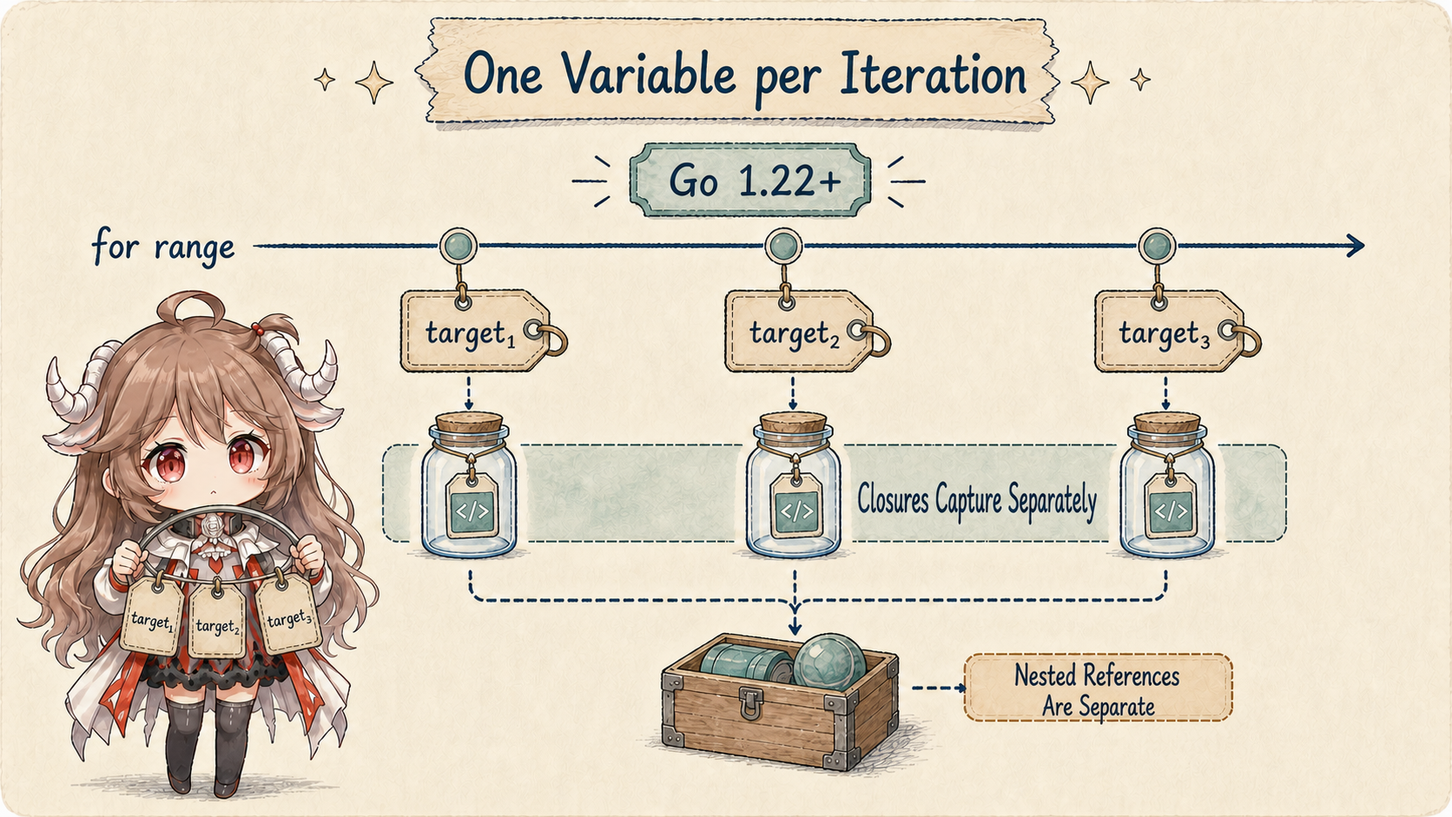
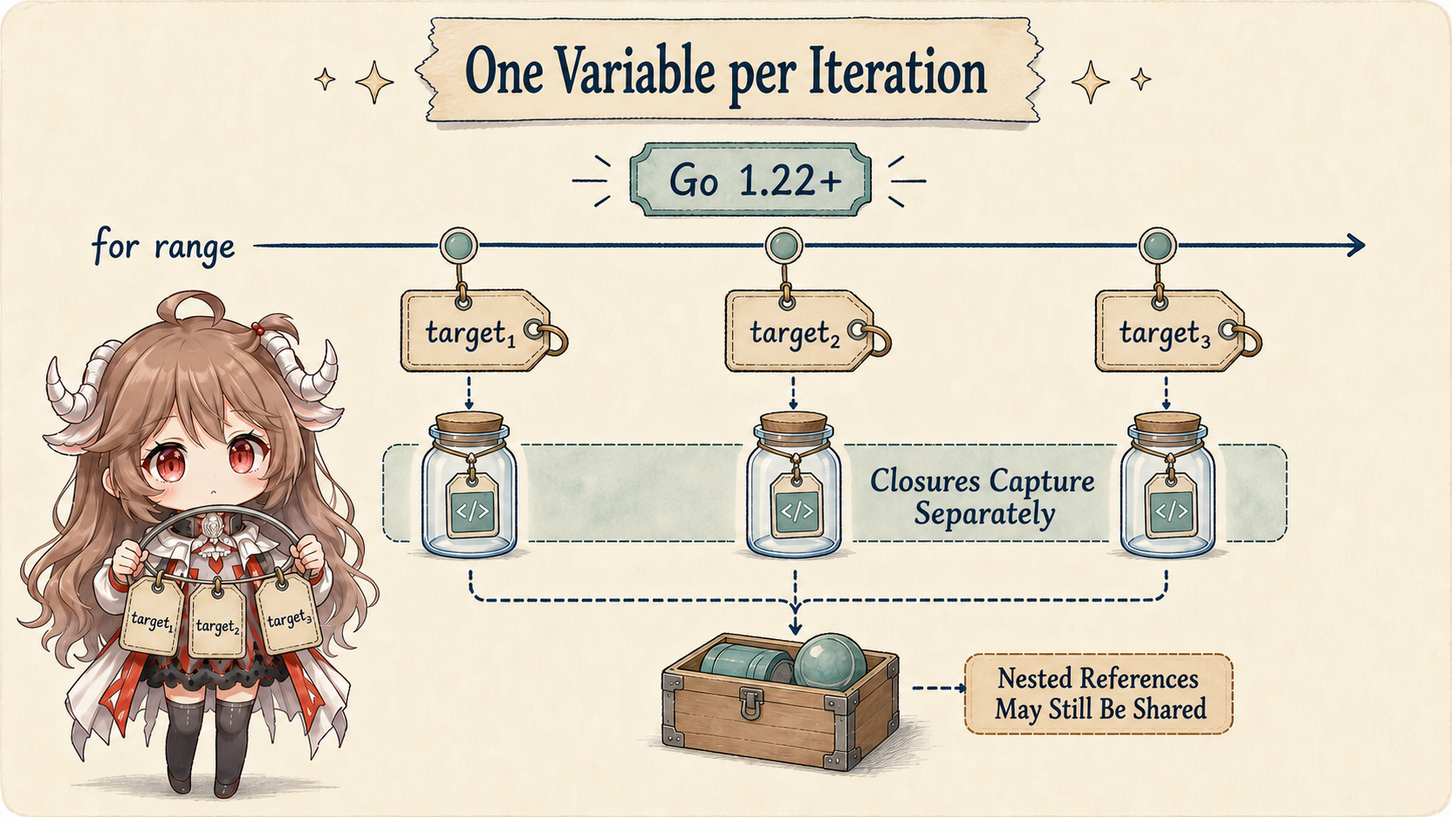
Refresh Go value semantics sources and slice ownership figures

diff --git a/go-runtime/en/value-semantics/index.html b/go-runtime/en/value-semantics/index.html
@@ -4,7 +4,7 @@
     <meta charset="utf-8" />
     <meta name="viewport" content="width=device-width, initial-scale=1" />
     <title>Go Source Notes II: What Assignment Copies and What Slices Share</title>
-    <meta name="description" content="Chapter II of Go from Request to Production uses fetchd's URL slice, result channel, and JSON aggregation to explain value copying, aliases, append growth, channel element copies, maps, interfaces, and range variables in Go 1.26.0." />
+    <meta name="description" content="Chapter II of Go from Request to Production uses fetchd's URL slice, result channel, and JSON aggregation to explain value copying, aliases, append growth, channel element copies, maps, interfaces, and range variables against a pinned Go development snapshot." />
     <meta name="theme-color" content="#f5f1e8" />
     <meta property="og:title" content="Go Source Notes II: What Assignment Copies and What Slices Share" />
     <meta property="og:description" content="Go always copies a value. The next question is whether that copied value still carries references to shared data." />
@@ -58,7 +58,7 @@
               “Go only passes by value” is true, but it often explains nothing: why can two slices update the same elements, why can an <code>append</code>
               suddenly separate them, and what does a channel isolate when it sends a struct? The useful answer is to identify <strong>the value being copied and every reference carried inside it</strong>.
             </p>
-            <div class="meta-line"><span>Source: Go 1.26.0</span><span>Path: language spec → runtime.slice → runtime.chan</span><span>Lab: fetchd/value_semantics_test.go</span></div>
+            <div class="meta-line"><span>Source: pinned Go development snapshot</span><span>Path: language spec → runtime.slice → runtime.chan</span><span>Lab: fetchd/value_semantics_test.go</span></div>
             <figure class="hero-image"><img src="../assets/value-semantics-overview.png" alt="Go value-semantics overview: integers, arrays, and structs are copied as values, while copied slice, map, channel, and interface values may still reach shared underlying data" /></figure>
           </section>
 
@@ -69,7 +69,7 @@
               We will build intuition with runnable code, then confirm it with three evidence layers. Semantics come from the Go specification sections on
               <a href="https://go.dev/ref/spec#Representation_of_values">representation of values</a>, <a href="https://go.dev/ref/spec#Slice_types">slice types</a>, and
               <a href="https://go.dev/ref/spec#For_statements">for statements</a>. Implementation claims are pinned to the
-              <a href="https://github.com/golang/go/tree/go1.26.0">Go 1.26.0 tag</a>. Observable behavior is captured by the repository's
+              <a href="https://github.com/golang/go/tree/f043823a99a4118989a34afec015d23b5d54d01e">fixed Go development-branch snapshot</a> (verified on September 20, 2026; not a stable release). Observable behavior is captured by the repository's
               <a href="https://github.com/Rememorio/blog/blob/main/go-runtime/examples/fetchd/value_semantics_test.go">value-semantics tests</a>.
               Runtime layouts explain this version; they are not a promise that application code should access them through <code>unsafe</code>.
             </p>
@@ -150,7 +150,7 @@ type slice struct {
     len   int
     cap   int
 }</code></pre>
-            <span class="source-caption">Pinned source: <a href="https://github.com/golang/go/blob/go1.26.0/src/runtime/slice.go#L16-L20">runtime.slice</a>. This is an internal layout, not a public API.</span>
+            <span class="source-caption">Pinned source: <a href="https://github.com/golang/go/blob/f043823a99a4118989a34afec015d23b5d54d01e/src/runtime/slice.go#L16-L20">runtime.slice</a>. This is an internal layout, not a public API.</span>
 
             <p>
               After <code>b := a</code>, <code>b</code> has its own triple. Reslicing <code>b</code> does not change <code>a.len</code>. Initially, however, both <code>array</code>
@@ -166,7 +166,7 @@ copyOfHeader = append(copyOfHeader, "gamma")
 len(original) == 2                   // each header owns its len
 original[:3][2] == "gamma"           // append still wrote into shared storage</code></pre>
 
-            <figure class="figure"><img src="../assets/slice-append-ownership.png" alt="Slice copy and append: two ptr len cap headers address one array; append keeps using it while capacity remains, then growslice uses mallocgc and memmove to create a new array" /></figure>
+            <figure class="figure"><img src="../assets/slice-append-ownership.png" alt="Two slice append paths: sufficient capacity reuses the array; insufficient capacity copies old elements into a new array through growslice; retain the returned slice header in both cases" /></figure>
 
             <h3>Why <code>append</code>'s result must be assigned</h3>
             <p>
@@ -183,7 +183,7 @@ original[:3][2] == "gamma"           // append still wrote into shared storage</
     memmove(p, oldPtr, lenmem)
     return slice{p, newLen, newcap}
 }</code></pre>
-            <span class="source-caption">Pinned source: <a href="https://github.com/golang/go/blob/go1.26.0/src/runtime/slice.go#L178-L286">growslice</a> and <a href="https://github.com/golang/go/blob/go1.26.0/src/runtime/slice.go#L325-L357">nextslicecap</a>.</span>
+            <span class="source-caption">Pinned source: <a href="https://github.com/golang/go/blob/f043823a99a4118989a34afec015d23b5d54d01e/src/runtime/slice.go#L178-L286">growslice</a> and <a href="https://github.com/golang/go/blob/f043823a99a4118989a34afec015d23b5d54d01e/src/runtime/slice.go#L325-L357">nextslicecap</a>.</span>
 
             <p>
               The real path also separates pointer-bearing elements, runs race/msan/asan hooks, applies write barriers, and rounds allocator size classes.
@@ -227,7 +227,7 @@ fmt.Println(string(got.Body)) // "Nk"</code></pre>
     unlock(&amp;c.lock)
     return true
 }</code></pre>
-            <span class="source-caption">Pinned source: the buffered path in <a href="https://github.com/golang/go/blob/go1.26.0/src/runtime/chan.go#L229-L249">runtime.chansend</a>. An unbuffered direct handoff uses barriers and <code>memmove</code> in <a href="https://github.com/golang/go/blob/go1.26.0/src/runtime/chan.go#L382-L403">sendDirect</a>.</span>
+            <span class="source-caption">Pinned source: the buffered path in <a href="https://github.com/golang/go/blob/f043823a99a4118989a34afec015d23b5d54d01e/src/runtime/chan.go#L221-L241">runtime.chansend</a>. An unbuffered direct handoff uses barriers and <code>memmove</code> in <a href="https://github.com/golang/go/blob/f043823a99a4118989a34afec015d23b5d54d01e/src/runtime/chan.go#L374-L395">sendDirect</a>.</span>
 
             <figure class="figure"><img src="../assets/channel-value-copy.png" alt="A fetchResult passes through chansend and typedmemmove into a channel buffer; the struct is copied, while copied byte-slice headers may still point at shared backing storage" /></figure>
 
@@ -246,7 +246,7 @@ fmt.Println(string(got.Body)) // "Nk"</code></pre>
 
             <h4>An interface nil has both a type and data question</h4>
             <p>
-              Go 1.26 represents a non-empty interface as <code>tab + data</code> and an empty interface as <code>_type + data</code>. This explains a typed nil:
+              The pinned runtime represents a non-empty interface as <code>tab + data</code> and an empty interface as <code>_type + data</code>. This explains a typed nil:
               after <code>(*fetchResult)(nil)</code> enters <code>any</code>, data may be nil while the dynamic type remains <code>*fetchResult</code>, so the interface itself is not nil.
             </p>
 
@@ -259,7 +259,7 @@ type eface struct {
     _type *_type
     data  unsafe.Pointer
 }</code></pre>
-            <span class="source-caption">Pinned source: <a href="https://github.com/golang/go/blob/go1.26.0/src/runtime/runtime2.go#L184-L195">runtime.iface and runtime.eface</a>. Application code should use language-level assertions, not inspect this layout.</span>
+            <span class="source-caption">Pinned source: <a href="https://github.com/golang/go/blob/f043823a99a4118989a34afec015d23b5d54d01e/src/runtime/runtime2.go#L184-L195">runtime.iface and runtime.eface</a>. Application code should use language-level assertions, not inspect this layout.</span>
 
             <pre><code class="language-go">var pointer *fetchResult
 var value any = pointer
@@ -271,8 +271,8 @@ ok &amp;&amp; typed == nil            // true</code></pre>
             <h3>4.3 Go 1.22+ Range Variables: One Old Trap Changed</h3>
             <p>
               <code>fetchd</code> launches goroutines inside <code>for _, target := range targets</code>. Since Go 1.22, iteration variables declared by a range clause with
-              <code>:=</code> are new variables for each iteration. This module declares <code>go 1.26.0</code>, so the closures capture distinct <code>target</code> variables; the historical
-              <code>target := target</code> patch is unnecessary here.
+              <code>:=</code> are new variables for each iteration. This module declares <code>go 1.26.0</code>, so a closure would capture a distinct <code>target</code> each iteration; the historical
+              <code>target := target</code> patch is unnecessary. This handler actually uses <code>go h.fetch(ctx, target, results)</code>: its arguments are evaluated and copied when the go statement executes, without capturing the loop variable in a closure.
             </p>
 
             <figure class="figure"><img src="../assets/range-variable-iterations.png" alt="Range variables since Go 1.22: target1, target2, and target3 belong to separate iterations and closures capture them separately; nested references may still reach shared data" /></figure>
@@ -329,12 +329,12 @@ go vet ./...</code></pre>
               <li><a href="https://go.dev/blog/slices-intro">Go Slices: usage and internals</a></li>
               <li><a href="https://go.dev/blog/slices">Arrays, slices (and strings): The mechanics of append</a></li>
               <li><a href="https://go.dev/blog/loopvar-preview">Fixing For Loops in Go 1.22</a></li>
-              <li><a href="https://github.com/golang/go/blob/go1.26.0/src/runtime/slice.go#L16-L20">runtime.slice</a></li>
-              <li><a href="https://github.com/golang/go/blob/go1.26.0/src/runtime/slice.go#L178-L286">runtime.growslice</a></li>
-              <li><a href="https://github.com/golang/go/blob/go1.26.0/src/runtime/slice.go#L325-L357">runtime.nextslicecap</a></li>
-              <li><a href="https://github.com/golang/go/blob/go1.26.0/src/runtime/chan.go#L157-L249">runtime.chansend</a></li>
-              <li><a href="https://github.com/golang/go/blob/go1.26.0/src/runtime/chan.go#L382-L403">runtime.sendDirect</a></li>
-              <li><a href="https://github.com/golang/go/blob/go1.26.0/src/runtime/runtime2.go#L184-L195">runtime interface layouts</a></li>
+              <li><a href="https://github.com/golang/go/blob/f043823a99a4118989a34afec015d23b5d54d01e/src/runtime/slice.go#L16-L20">runtime.slice</a></li>
+              <li><a href="https://github.com/golang/go/blob/f043823a99a4118989a34afec015d23b5d54d01e/src/runtime/slice.go#L178-L286">runtime.growslice</a></li>
+              <li><a href="https://github.com/golang/go/blob/f043823a99a4118989a34afec015d23b5d54d01e/src/runtime/slice.go#L325-L357">runtime.nextslicecap</a></li>
+              <li><a href="https://github.com/golang/go/blob/f043823a99a4118989a34afec015d23b5d54d01e/src/runtime/chan.go#L157-L241">runtime.chansend</a></li>
+              <li><a href="https://github.com/golang/go/blob/f043823a99a4118989a34afec015d23b5d54d01e/src/runtime/chan.go#L374-L395">runtime.sendDirect</a></li>
+              <li><a href="https://github.com/golang/go/blob/f043823a99a4118989a34afec015d23b5d54d01e/src/runtime/runtime2.go#L184-L195">runtime interface layouts</a></li>
               <li><a href="https://github.com/Rememorio/blog/tree/main/go-runtime/examples/fetchd">Runnable fetchd example</a></li>
             </ul>
 

diff --git a/go-runtime/zh/value-semantics/index.html b/go-runtime/zh/value-semantics/index.html
@@ -6,7 +6,7 @@
     <title>Go 源码阅读（二）：赋值复制了什么，slice 又共享了什么</title>
     <meta
       name="description"
-      content="Go 从请求到生产现场系列第二篇：从 fetchd 的 URL slice、result channel 与 JSON 聚合出发，沿 Go 1.26.0 源码解释值复制、别名、append 扩容、channel 元素复制、map、interface 与 range 变量。"
+      content="Go 从请求到生产现场系列第二篇：从 fetchd 的 URL slice、result channel 与 JSON 聚合出发，沿 Go 开发分支固定快照解释值复制、别名、append 扩容、channel 元素复制、map、interface 与 range 变量。"
     />
     <meta name="theme-color" content="#f5f1e8" />
     <meta property="og:title" content="Go 源码阅读（二）：赋值复制了什么，slice 又共享了什么" />
@@ -66,7 +66,7 @@
               “Go 只有值传递”没错，却常常什么也没解释：两个 slice 为什么能改到同一批元素，<code>append</code> 后为什么又突然互不影响，
               channel 发送结构体后到底隔离了什么？答案不是再造一套“引用类型”术语，而是逐层辨认<strong>被复制的值长什么样，它内部是否仍携带引用</strong>。
             </p>
-            <div class="meta-line"><span>源码：Go 1.26.0</span><span>路径：language spec → runtime.slice → runtime.chan</span><span>实验：fetchd/value_semantics_test.go</span></div>
+            <div class="meta-line"><span>源码：Go 开发分支固定快照</span><span>路径：language spec → runtime.slice → runtime.chan</span><span>实验：fetchd/value_semantics_test.go</span></div>
             <figure class="hero-image"><img src="../assets/value-semantics-overview.png" alt="Go 值语义总览：整数、数组和结构体完成值复制；slice、map、channel 与 interface 的值被复制后仍可能指向共享底层数据" /></figure>
           </section>
 
@@ -78,7 +78,7 @@
             <p>
               本文先用可运行代码建立直觉，再用三层证据确认它：语言语义以 <a href="https://go.dev/ref/spec#Representation_of_values">Go 语言规范的 Representation of values</a>、
               <a href="https://go.dev/ref/spec#Slice_types">Slice types</a> 和 <a href="https://go.dev/ref/spec#For_statements">for 语句</a>为准；
-              实现固定到 <a href="https://github.com/golang/go/tree/go1.26.0">Go 1.26.0 tag</a>；可观察行为由仓库中的
+              实现固定到 <a href="https://github.com/golang/go/tree/f043823a99a4118989a34afec015d23b5d54d01e">Go 开发分支固定快照</a>（核实于 2026-09-20，不代表稳定发行版）；可观察行为由仓库中的
               <a href="https://github.com/Rememorio/blog/blob/main/go-runtime/examples/fetchd/value_semantics_test.go">值语义测试</a>覆盖。
               runtime 布局是解释当前实现的证据，不是让业务用 <code>unsafe</code> 依赖内部字段的承诺。
             </p>
@@ -160,7 +160,7 @@ type slice struct {
     len   int
     cap   int
 }</code></pre>
-            <span class="source-caption">对应源码：<a href="https://github.com/golang/go/blob/go1.26.0/src/runtime/slice.go#L16-L20">runtime.slice</a>。这是 runtime 内部布局，不是公共 API。</span>
+            <span class="source-caption">对应源码：<a href="https://github.com/golang/go/blob/f043823a99a4118989a34afec015d23b5d54d01e/src/runtime/slice.go#L16-L20">runtime.slice</a>。这是 runtime 内部布局，不是公共 API。</span>
 
             <p>
               执行 <code>b := a</code> 时，<code>b</code> 得到自己的三元组；修改 <code>b</code> 的长度不会改变 <code>a.len</code>。
@@ -176,7 +176,7 @@ copyOfHeader = append(copyOfHeader, "gamma")
 len(original) == 2                   // 每个头有自己的 len
 original[:3][2] == "gamma"           // 但 append 仍写入共享数组</code></pre>
 
-            <figure class="figure"><img src="../assets/slice-append-ownership.png" alt="slice 复制与 append：两个 ptr len cap 头指向同一数组；容量足够时 append 继续使用同一数组，容量不足时 growslice 经 mallocgc 和 memmove 生成新数组" /></figure>
+            <figure class="figure"><img src="../assets/slice-append-ownership.png" alt="slice 追加的两条路径：容量足够时切片头继续指向原数组；容量不足时 growslice 复制旧元素到新数组，两种情况都要接住返回的新切片头" /></figure>
 
             <h3><code>append</code> 为什么必须接住返回值</h3>
             <p>
@@ -193,7 +193,7 @@ original[:3][2] == "gamma"           // 但 append 仍写入共享数组</code><
     memmove(p, oldPtr, lenmem)
     return slice{p, newLen, newcap}
 }</code></pre>
-            <span class="source-caption">对应源码：<a href="https://github.com/golang/go/blob/go1.26.0/src/runtime/slice.go#L178-L286">growslice</a> 与 <a href="https://github.com/golang/go/blob/go1.26.0/src/runtime/slice.go#L325-L357">nextslicecap</a>。</span>
+            <span class="source-caption">对应源码：<a href="https://github.com/golang/go/blob/f043823a99a4118989a34afec015d23b5d54d01e/src/runtime/slice.go#L178-L286">growslice</a> 与 <a href="https://github.com/golang/go/blob/f043823a99a4118989a34afec015d23b5d54d01e/src/runtime/slice.go#L325-L357">nextslicecap</a>。</span>
 
             <p>
               真源码还会区分元素是否包含指针、执行 race/msan/asan 检查、做写屏障和分配器尺寸取整。<code>nextslicecap</code> 对较小 slice 倾向翻倍，
@@ -235,7 +235,7 @@ fmt.Println(string(got.Body)) // "Nk"</code></pre>
     unlock(&amp;c.lock)
     return true
 }</code></pre>
-            <span class="source-caption">对应源码：<a href="https://github.com/golang/go/blob/go1.26.0/src/runtime/chan.go#L229-L249">runtime.chansend 的缓冲路径</a>。无缓冲直接交接会走 <a href="https://github.com/golang/go/blob/go1.26.0/src/runtime/chan.go#L382-L403">sendDirect</a> 的屏障与 <code>memmove</code>。</span>
+            <span class="source-caption">对应源码：<a href="https://github.com/golang/go/blob/f043823a99a4118989a34afec015d23b5d54d01e/src/runtime/chan.go#L221-L241">runtime.chansend 的缓冲路径</a>。无缓冲直接交接会走 <a href="https://github.com/golang/go/blob/f043823a99a4118989a34afec015d23b5d54d01e/src/runtime/chan.go#L374-L395">sendDirect</a> 的屏障与 <code>memmove</code>。</span>
 
             <figure class="figure"><img src="../assets/channel-value-copy.png" alt="channel 元素复制图：fetchResult 经 chansend 和 typedmemmove 写入缓冲区，结构体字段被复制；若字段是字节 slice，两个 slice 头仍可能指向同一底层数据" /></figure>
 
@@ -254,7 +254,7 @@ fmt.Println(string(got.Body)) // "Nk"</code></pre>
 
             <h4>interface 的 nil 必须同时看类型与数据</h4>
             <p>
-              Go 1.26 runtime 把非空 interface 表示为 <code>tab + data</code>，空 interface 表示为 <code>_type + data</code>。
+              当前快照的 runtime 把非空 interface 表示为 <code>tab + data</code>，空 interface 表示为 <code>_type + data</code>。
               这解释了 typed nil：把 <code>(*fetchResult)(nil)</code> 装进 <code>any</code> 后，data 可以是 nil，但动态类型仍是 <code>*fetchResult</code>，所以 interface 整体不等于 nil。
             </p>
 
@@ -267,7 +267,7 @@ type eface struct {
     _type *_type
     data  unsafe.Pointer
 }</code></pre>
-            <span class="source-caption">对应源码：<a href="https://github.com/golang/go/blob/go1.26.0/src/runtime/runtime2.go#L184-L195">runtime.iface 与 runtime.eface</a>。业务判断应使用语言级类型断言，而不是读取此布局。</span>
+            <span class="source-caption">对应源码：<a href="https://github.com/golang/go/blob/f043823a99a4118989a34afec015d23b5d54d01e/src/runtime/runtime2.go#L184-L195">runtime.iface 与 runtime.eface</a>。业务判断应使用语言级类型断言，而不是读取此布局。</span>
 
             <pre><code class="language-go">var pointer *fetchResult
 var value any = pointer
@@ -279,7 +279,8 @@ ok &amp;&amp; typed == nil            // true</code></pre>
             <h3>4.3 Go 1.22+ 的 range 变量：旧陷阱已变，别名问题没消失</h3>
             <p>
               <code>fetchd</code> 在 <code>for _, target := range targets</code> 中启动 goroutine。自 Go 1.22 起，range clause 用 <code>:=</code>
-              声明的迭代变量每轮各有一个新变量；模块声明 <code>go 1.26.0</code>，所以闭包捕获的是不同的 <code>target</code>，无需再写历史上的 <code>target := target</code> 补丁。
+              声明的迭代变量每轮各有一个新变量；模块声明 <code>go 1.26.0</code>，所以闭包捕获时会得到不同的 <code>target</code>，无需再写历史上的 <code>target := target</code> 补丁。
+              这里实际使用的是 <code>go h.fetch(ctx, target, results)</code>：参数在 go 语句执行时就已求值并复制，并不依靠闭包捕获循环变量。
             </p>
 
             <figure class="figure"><img src="../assets/range-variable-iterations.png" alt="Go 1.22 之后的 range 变量图：target1、target2、target3 分属不同迭代，闭包分别捕获；值内部的引用是否共享仍需单独判断" /></figure>
@@ -338,12 +339,12 @@ go vet ./...</code></pre>
               <li><a href="https://go.dev/blog/slices-intro">Go Slices: usage and internals</a></li>
               <li><a href="https://go.dev/blog/slices">Arrays, slices (and strings): The mechanics of append</a></li>
               <li><a href="https://go.dev/blog/loopvar-preview">Fixing For Loops in Go 1.22</a></li>
-              <li><a href="https://github.com/golang/go/blob/go1.26.0/src/runtime/slice.go#L16-L20">runtime.slice</a></li>
-              <li><a href="https://github.com/golang/go/blob/go1.26.0/src/runtime/slice.go#L178-L286">runtime.growslice</a></li>
-              <li><a href="https://github.com/golang/go/blob/go1.26.0/src/runtime/slice.go#L325-L357">runtime.nextslicecap</a></li>
-              <li><a href="https://github.com/golang/go/blob/go1.26.0/src/runtime/chan.go#L157-L249">runtime.chansend</a></li>
-              <li><a href="https://github.com/golang/go/blob/go1.26.0/src/runtime/chan.go#L382-L403">runtime.sendDirect</a></li>
-              <li><a href="https://github.com/golang/go/blob/go1.26.0/src/runtime/runtime2.go#L184-L195">runtime interface layouts</a></li>
+              <li><a href="https://github.com/golang/go/blob/f043823a99a4118989a34afec015d23b5d54d01e/src/runtime/slice.go#L16-L20">runtime.slice</a></li>
+              <li><a href="https://github.com/golang/go/blob/f043823a99a4118989a34afec015d23b5d54d01e/src/runtime/slice.go#L178-L286">runtime.growslice</a></li>
+              <li><a href="https://github.com/golang/go/blob/f043823a99a4118989a34afec015d23b5d54d01e/src/runtime/slice.go#L325-L357">runtime.nextslicecap</a></li>
+              <li><a href="https://github.com/golang/go/blob/f043823a99a4118989a34afec015d23b5d54d01e/src/runtime/chan.go#L157-L241">runtime.chansend</a></li>
+              <li><a href="https://github.com/golang/go/blob/f043823a99a4118989a34afec015d23b5d54d01e/src/runtime/chan.go#L374-L395">runtime.sendDirect</a></li>
+              <li><a href="https://github.com/golang/go/blob/f043823a99a4118989a34afec015d23b5d54d01e/src/runtime/runtime2.go#L184-L195">runtime interface layouts</a></li>
               <li><a href="https://github.com/Rememorio/blog/tree/main/go-runtime/examples/fetchd">fetchd 可运行示例</a></li>
             </ul>
 

diff --git a/en/index.html b/en/index.html
@@ -526,12 +526,12 @@
             <span class="arrow" aria-hidden="true">-&gt;</span>
           </a>
           <a class="post-card" href="../go-runtime/en/value-semantics/" lang="en">
-            <span class="post-thumb" aria-hidden="true"><img src="../go-runtime/en/assets/value-semantics-overview.png" alt="" /></span>
+            <span class="post-thumb" aria-hidden="true"><img src="../go-runtime/en/assets/value-semantics-overview.png" alt="What Assignment Copies and What a slice Shares" /></span>
             <span>
               <span class="tag">Go from Request to Production · Chapter II</span>
               <strong>What Assignment Copies and What a <code>slice</code> Shares</strong>
               <p>Use the URL slice, result channel, and JSON collector to trace value copies, aliases, <code>append</code> growth, interfaces, and range variables through the spec and runtime.</p>
-              <span class="post-meta" aria-label="Article tags"><span>Go 1.26</span><span>slice</span><span>channel</span><span>English</span></span>
+              <span class="post-meta" aria-label="Article tags"><span>Go development</span><span>slice</span><span>channel</span><span>English</span></span>
             </span>
             <span class="arrow" aria-hidden="true">-&gt;</span>
           </a>

diff --git a/zh/index.html b/zh/index.html
@@ -523,12 +523,12 @@
             <span class="arrow" aria-hidden="true">→</span>
           </a>
           <a class="post-card" href="../go-runtime/zh/value-semantics/" lang="zh-CN">
-            <span class="post-thumb" aria-hidden="true"><img src="../go-runtime/zh/assets/value-semantics-overview.png" alt="" /></span>
+            <span class="post-thumb" aria-hidden="true"><img src="../go-runtime/zh/assets/value-semantics-overview.png" alt="赋值复制了什么，slice 又共享了什么" /></span>
             <span>
               <span class="tag">Go 从请求到生产现场 · 第二篇</span>
               <strong>赋值复制了什么，<code>slice</code> 又共享了什么</strong>
               <p>从 URL slice、result channel 与 JSON 聚合出发，沿规范与 runtime 源码拆开值复制、别名、<code>append</code> 扩容、interface 和 range 变量。</p>
-              <span class="post-meta" aria-label="文章标签"><span>Go 1.26</span><span>slice</span><span>channel</span><span>中文</span></span>
+              <span class="post-meta" aria-label="文章标签"><span>Go 开发分支</span><span>slice</span><span>channel</span><span>中文</span></span>
             </span>
             <span class="arrow" aria-hidden="true">→</span>
           </a>

diff --git a/go-runtime/en/index.html b/go-runtime/en/index.html
@@ -106,12 +106,12 @@
           <span class="arrow" aria-hidden="true">→</span>
         </a>
         <a class="post-card" href="./value-semantics/">
-          <span class="post-thumb" aria-hidden="true"><img src="assets/value-semantics-overview.png" alt="" /></span>
+          <span class="post-thumb" aria-hidden="true"><img src="assets/value-semantics-overview.png" alt="What assignment copies and what a slice shares" /></span>
           <span>
             <span class="tag">Source Notes · Chapter II</span>
             <strong>What assignment copies and what a <code>slice</code> shares</strong>
             <p>Start with a puzzle—why can a copied slice still change the original data?—then learn value copies, shared backing data, <code>append</code> growth, and channel sends.</p>
-            <span class="post-meta" aria-label="Article tags"><span>Go 1.26</span><span>slice</span><span>channel</span><span>English</span></span>
+            <span class="post-meta" aria-label="Article tags"><span>Go development</span><span>slice</span><span>channel</span><span>English</span></span>
           </span>
           <span class="arrow" aria-hidden="true">→</span>
         </a>

diff --git a/go-runtime/zh/index.html b/go-runtime/zh/index.html
@@ -106,12 +106,12 @@
           <span class="arrow" aria-hidden="true">→</span>
         </a>
         <a class="post-card" href="./value-semantics/">
-          <span class="post-thumb" aria-hidden="true"><img src="assets/value-semantics-overview.png" alt="" /></span>
+          <span class="post-thumb" aria-hidden="true"><img src="assets/value-semantics-overview.png" alt="赋值复制了什么，slice 又共享了什么" /></span>
           <span>
             <span class="tag">源码阅读 · 第二篇</span>
             <strong>赋值复制了什么，<code>slice</code> 又共享了什么</strong>
             <p>从“复制一个 slice 后为什么还能改到原数据”开始，逐步讲清值复制、共享底层数据、<code>append</code> 扩容和 channel 发送。</p>
-            <span class="post-meta" aria-label="文章标签"><span>Go 1.26</span><span>slice</span><span>channel</span><span>中文</span></span>
+            <span class="post-meta" aria-label="文章标签"><span>Go 开发分支</span><span>slice</span><span>channel</span><span>中文</span></span>
           </span>
           <span class="arrow" aria-hidden="true">→</span>
         </a>
